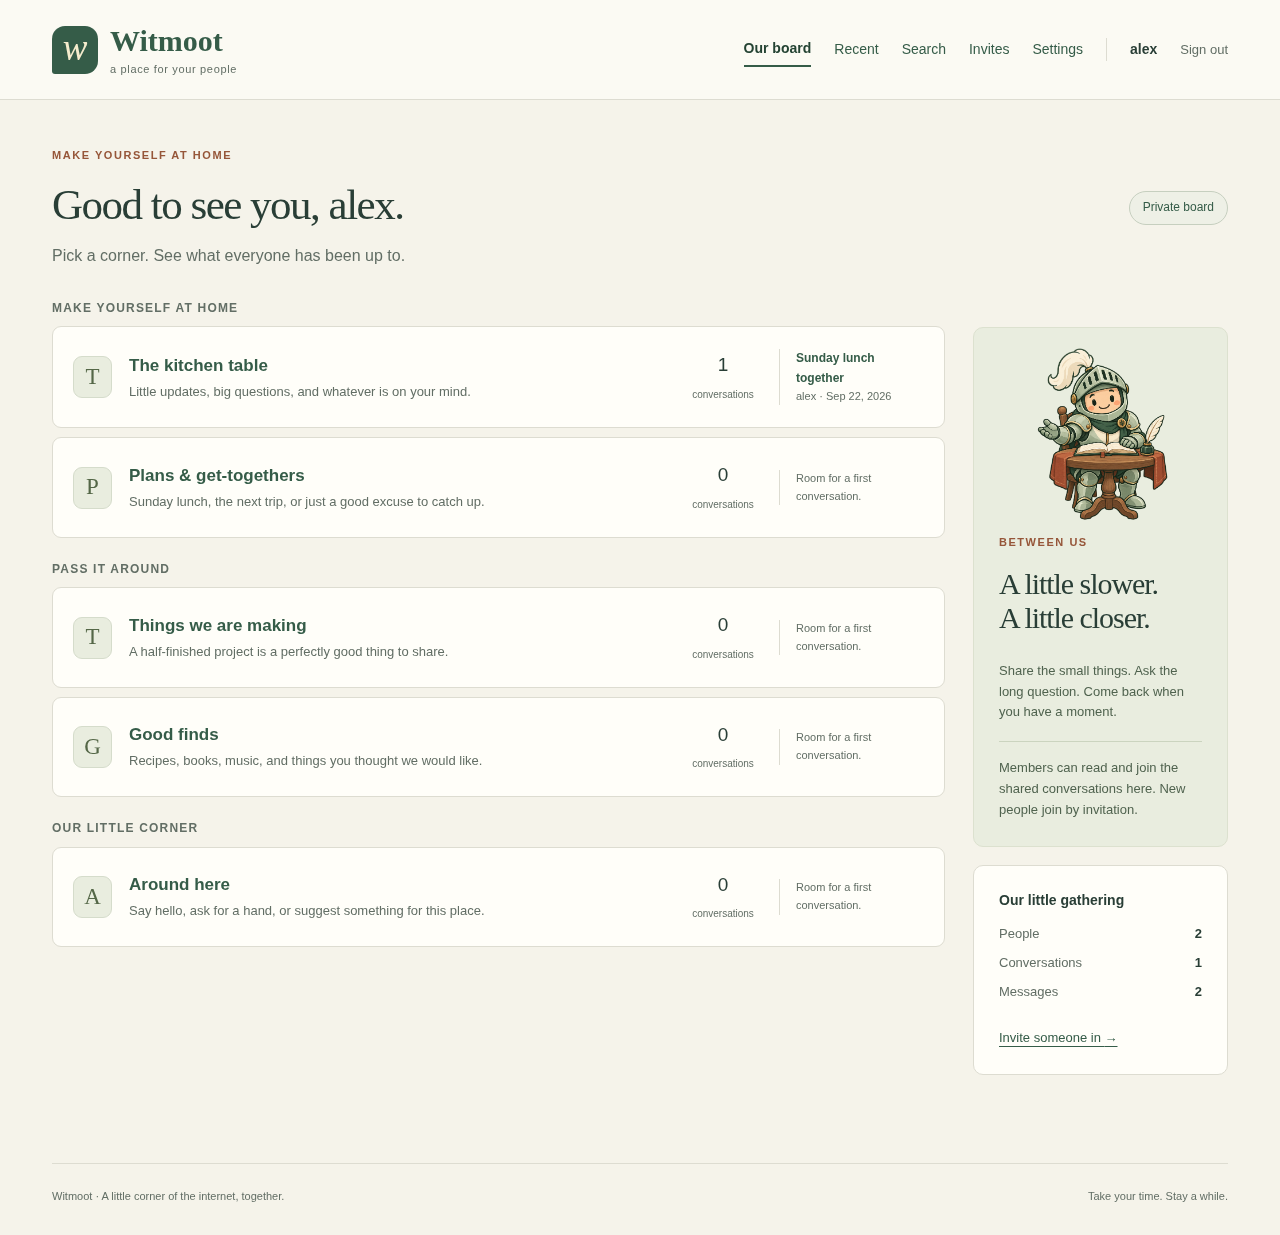
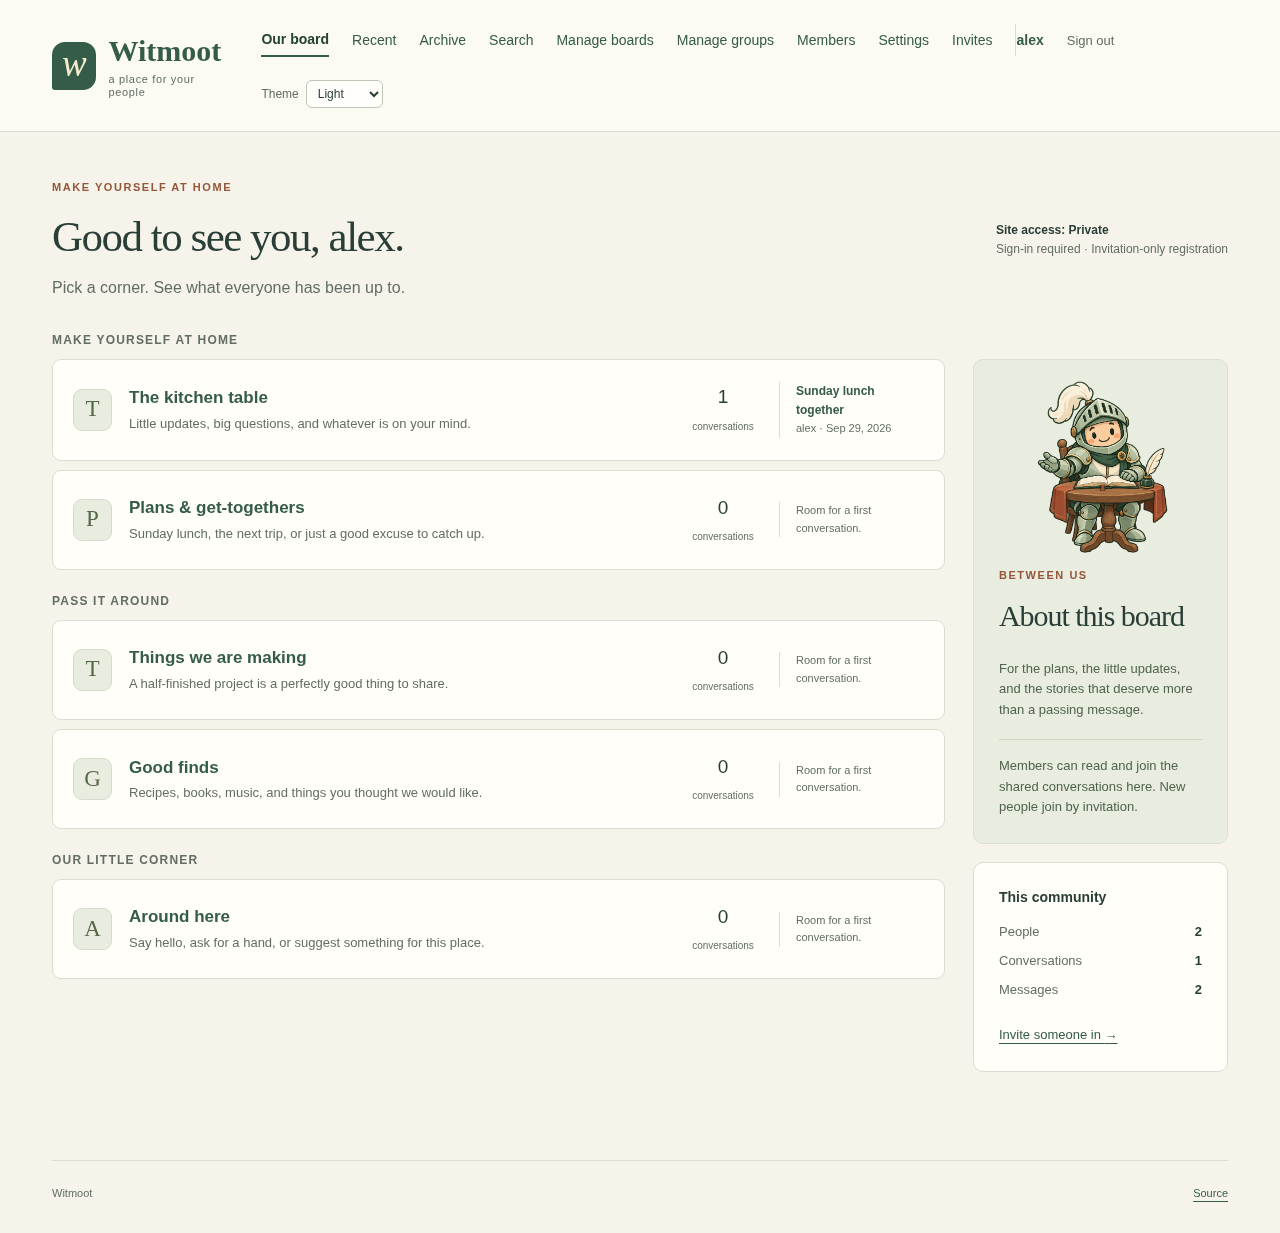
Fix OpenRC mail settings and refine sign-in copy

diff --git a/internal/forum/templates/home.html b/internal/forum/templates/home.html
@@ -1,6 +1,6 @@
 {{define "welcome"}}
 <section class="welcome-grid">
-	<div class="welcome-copy"><p class="eyebrow">A small place. Your people.</p><h1>{{.WelcomeTitle}}</h1><p class="lede">{{.WelcomeText}}</p><p>{{if eq .Mode "personal"}}{{.Name}} is a personal board for its owners. A quiet place for thoughts worth keeping.{{else}}{{.Name}} is a private gathering place for family and friends. Pull up a chair.{{end}}</p><a class="button" href="/login">Come on in <span aria-hidden="true">→</span></a><p class="muted invitation-note">{{if eq .Mode "personal"}}Owner sign-in only. This board is not accepting new members.{{else}}New here? Ask the owner for an invitation.{{end}}</p></div>
+	<div class="welcome-copy"><p class="eyebrow">A small place. Your people.</p><h1>{{.WelcomeTitle}}</h1><p class="lede">{{.WelcomeText}}</p><p>{{if eq .Mode "personal"}}{{.Name}} is a personal board for its owners. A quiet place for thoughts worth keeping.{{else}}{{.Name}} is a private gathering place for family and friends. Pull up a chair.{{end}}</p><a class="button" href="/login">Sign in <span aria-hidden="true">→</span></a><p class="muted invitation-note">{{if eq .Mode "personal"}}Owner sign-in only. This board is not accepting new members.{{else}}New here? Ask the owner for an invitation.{{end}}</p></div>
 	<aside class="welcome-note"><img class="mascot welcome-mascot" src="{{.MascotURL}}" alt="" width="240" height="240"><p class="eyebrow">Make yourself at home</p><h2>Our own<br>little corner.</h2><div class="note-rule"></div><p>{{.WelcomeText}}</p><span class="note-signature">See you around.</span></aside>
 </section>
 {{end}}
@@ -21,8 +21,8 @@
 		{{else}}<p class="paper">No active boards to show. You can still visit the <a href="/archive">Archive</a>.</p>{{end}}
 	</div>
 	<aside class="sidebar">
-		<section class="paper side-note"><img class="mascot" src="{{.MascotURL}}" alt="" width="180" height="180"><p class="eyebrow">{{if eq .Mode "open"}}Room at the table{{else}}Between us{{end}}</p><h2>A little slower.<br>A little closer.</h2><p>{{.WelcomeText}}</p><p>{{if eq .Mode "personal"}}Only owners can use this board. New conversations are for owners only.{{else if eq .Mode "open"}}Public conversations are open to everyone. Create an account to take part.{{else}}Members can read and join the shared conversations here. New people join by invitation.{{end}}</p></section>
-		<section class="paper group-stats"><h2>Our little gathering</h2><dl><div><dt>People</dt><dd>{{.Stats.Members}}</dd></div><div><dt>Conversations</dt><dd>{{.Stats.Topics}}</dd></div><div><dt>Messages</dt><dd>{{.Stats.Posts}}</dd></div></dl>{{if and .User (or (eq .User.Role "owner") .User.CanInvite) (ne .Mode "personal")}}<a href="/invites">Invite someone in <span aria-hidden="true">→</span></a>{{else if and (not .User) (eq .Mode "open")}}<a href="/join">Join our board <span aria-hidden="true">→</span></a>{{end}}</section>
+		<section class="paper side-note"><img class="mascot" src="{{.MascotURL}}" alt="" width="180" height="180"><p class="eyebrow">{{if eq .Mode "open"}}Room at the table{{else}}Between us{{end}}</p><h2>About this board</h2><p>{{.WelcomeText}}</p><p>{{if eq .Mode "personal"}}Only owners can use this board. New conversations are for owners only.{{else if eq .Mode "open"}}Public conversations are open to everyone. Create an account to take part.{{else}}Members can read and join the shared conversations here. New people join by invitation.{{end}}</p></section>
+		<section class="paper group-stats"><h2>This community</h2><dl><div><dt>People</dt><dd>{{.Stats.Members}}</dd></div><div><dt>Conversations</dt><dd>{{.Stats.Topics}}</dd></div><div><dt>Messages</dt><dd>{{.Stats.Posts}}</dd></div></dl>{{if and .User (or (eq .User.Role "owner") .User.CanInvite) (ne .Mode "personal")}}<a href="/invites">Invite someone in <span aria-hidden="true">→</span></a>{{else if and (not .User) (eq .Mode "open")}}<a href="/join">Join our board <span aria-hidden="true">→</span></a>{{end}}</section>
 	</aside>
 </div>
 {{end}}

diff --git a/internal/forum/templates/conversations.html b/internal/forum/templates/conversations.html
@@ -27,7 +27,7 @@
 {{template "pager" .}}
 <div class="posts">{{range .Posts}}<article class="post paper" id="post-{{.ID}}"><aside class="post-author">{{if .HasAvatar}}<img class="avatar" src="/avatars/{{.AuthorID}}" alt="" loading="lazy">{{else}}<span class="avatar" aria-hidden="true">{{initial .Author}}</span>{{end}}<strong>{{.Author}}</strong><span>Here since {{date .JoinedAt}}</span></aside><div class="post-content"><header><div><time datetime="{{iso .CreatedAt}}">{{stamp .CreatedAt}}</time>{{if .EditedAt}}<span class="edited">Edited <time datetime="{{iso .EditedAt}}">{{stamp .EditedAt}}</time></span>{{end}}</div>{{if .CanEdit}}<a href="/posts/{{.ID}}/edit" aria-label="Edit message {{.Number}}">Edit</a>{{end}}<a href="#post-{{.ID}}" aria-label="Message {{.Number}}" hx-boost="false">#{{.Number}}</a></header><div class="post-body" hx-disable>{{template "body" .Body}}</div>{{if .Images}}<div class="post-images">{{range .Images}}<figure><a href="/images/{{.ID}}" target="_blank" rel="noopener" hx-boost="false"><img src="/images/{{.ID}}" alt="{{.Name}}" loading="lazy"></a><figcaption>{{.Name}}</figcaption></figure>{{end}}</div>{{end}}</div></article>{{else}}<p class="paper">There are no messages on this page.</p>{{end}}</div>
 {{template "pager" .}}
-{{if .CanPost}}<section class="paper reply-box" id="reply"><h2>Join the conversation</h2><p class="audience-note">Who can read your reply: <strong>{{.Topic.AudienceLabel}}</strong>.</p>{{template "error" .}}<form action="/topics/{{.Topic.ID}}/replies" method="post" enctype="multipart/form-data" hx-encoding="multipart/form-data" hx-disabled-elt="find button[type='submit']">{{template "csrf" .}}<label for="body">Your reply</label><textarea id="body" name="body" rows="5" maxlength="20000" required placeholder="Leave a little something…">{{.BodyInput}}</textarea>{{template "image-fields" .}}<div class="form-footer"><span class="muted">Take your time. Line breaks welcome.</span><button type="submit">Post reply</button></div></form></section>{{else if .Topic.BoardArchived}}{{else if .User}}<p class="paper audience-note">You have read-only access to this board.</p>{{else}}<section class="paper reply-box"><h2>Join the conversation</h2><p><a href="/login">Sign in to reply</a> or <a href="/join">create an account</a>.</p></section>{{end}}
+{{if .CanPost}}<section class="paper reply-box" id="reply"><h2>Join the conversation</h2><p class="audience-note">Who can read your reply: <strong>{{.Topic.AudienceLabel}}</strong>.</p>{{template "error" .}}<form action="/topics/{{.Topic.ID}}/replies" method="post" enctype="multipart/form-data" hx-encoding="multipart/form-data" hx-disabled-elt="find button[type='submit']">{{template "csrf" .}}<label for="body">Your reply</label><textarea id="body" name="body" rows="5" maxlength="20000" required placeholder="Write your reply">{{.BodyInput}}</textarea>{{template "image-fields" .}}<div class="form-footer"><span class="muted">Line breaks are kept.</span><button type="submit">Post reply</button></div></form></section>{{else if .Topic.BoardArchived}}{{else if .User}}<p class="paper audience-note">You have read-only access to this board.</p>{{else}}<section class="paper reply-box"><h2>Join the conversation</h2><p><a href="/login">Sign in to reply</a> or <a href="/join">create an account</a>.</p></section>{{end}}
 {{end}}
 
 {{define "compose"}}

diff --git a/internal/forum/templates/layout.html b/internal/forum/templates/layout.html
@@ -35,7 +35,7 @@
 				{{if .ImagesEnabled}}<a href="/account/imvault">Images</a>{{end}}
 				<a href="/account" class="signed-in" {{if eq .View "account"}}aria-current="page"{{end}}>{{.User.Username}}</a>
 				<form method="post" action="/logout"><input type="hidden" name="csrf" value="{{.CSRF}}"><button class="text-button" type="submit">Sign out</button></form>
-				{{else}}{{if eq .Mode "open"}}<a href="/join">Join our board</a>{{end}}<a href="/login" class="button small">Come on in</a>{{end}}
+				{{else}}{{if eq .Mode "open"}}<a href="/join">Join our board</a>{{end}}<a href="/login" class="button small">Sign in</a>{{end}}
 				<label class="theme-picker" hidden>Theme
 					<select data-theme-select aria-label="Color theme">
 						<option value="system">System</option>
@@ -73,7 +73,7 @@
 		{{else if eq .View "library"}}{{template "library" .}}
 		{{else}}<section class="paper narrow"><p class="eyebrow">A small detour</p><h1>{{.Title}}</h1>{{template "error" .}}<a href="/">Back to our board</a></section>{{end}}
 	</main>
-	<footer class="site-footer"><span>{{.Name}} · A little corner of the internet, together.</span><span>Take your time. Stay a while.{{if .SourceURL}} · <a href="{{.SourceURL}}" rel="noopener">Source</a>{{end}}</span></footer>
+	<footer class="site-footer"><span>{{.Name}}</span><span>{{if .SourceURL}}<a href="{{.SourceURL}}" rel="noopener">Source</a>{{end}}</span></footer>
 </body>
 </html>{{end}}
 

diff --git a/internal/forum/templates/accounts.html b/internal/forum/templates/accounts.html
@@ -1,13 +1,13 @@
 {{define "login"}}
 <section class="paper narrow account-card">
-	<p class="eyebrow">Your chair is still here</p><h1>Welcome back.</h1>
+	<p class="eyebrow">{{.Name}}</p><h1>Welcome back.</h1>
 	<p class="muted">{{if eq .Mode "personal"}}Sign in with an owner account to open your personal board.{{else}}Sign in to see what your people have been up to.{{end}}</p>
 	{{template "error" .}}
 	<form action="/login" method="post" hx-disabled-elt="find button[type='submit']">
 		{{template "csrf" .}}
 		<label for="username">Username</label><input id="username" name="username" autocomplete="username" maxlength="24" value="{{.Username}}" required>
 		<label for="password">Password</label><input id="password" type="password" name="password" autocomplete="current-password" required>
-		<button class="full-width" type="submit">Come on in</button>
+		<button class="full-width" type="submit">Sign in</button>
 	</form>
 	<p class="account-note">{{if eq .Mode "open"}}New here? <a href="/join">Join our board</a>.{{else if eq .Mode "personal"}}This board is for its owners. Joining and invitations are disabled.{{else}}Joining for the first time? Open the invitation link the owner shared with you.{{end}}</p>
 </section>

diff --git a/contrib/openrc/mail_test.go b/contrib/openrc/mail_test.go
@@ -1,0 +1,29 @@
+package openrc_test
+
+import (
+	"strings"
+	"testing"
+)
+
+func TestSMTPAssignmentsReachDaemon(t *testing.T) {
+	out, err := runService(`
+WITMOOT_SMTP_HOST=smtp.example.org
+WITMOOT_SMTP_PORT=465
+WITMOOT_SMTP_USERNAME=witmoot
+WITMOOT_SMTP_PASSWORD=audit-placeholder
+WITMOOT_SMTP_FROM='Witmoot <no-reply@example.org>'
+WITMOOT_SMTP_TLS=implicit
+. ./witmoot || exit 1
+checkpath() { return 0; }
+start_pre || exit 1
+env
+`)
+	if err != nil {
+		t.Fatalf("service startup: %s (%v)", out, err)
+	}
+	for _, setting := range []string{"WITMOOT_SMTP_HOST=smtp.example.org", "WITMOOT_SMTP_PORT=465", "WITMOOT_SMTP_USERNAME=witmoot", "WITMOOT_SMTP_PASSWORD=audit-placeholder", "WITMOOT_SMTP_FROM=Witmoot <no-reply@example.org>", "WITMOOT_SMTP_TLS=implicit"} {
+		if !strings.Contains("\n"+string(out), "\n"+setting+"\n") {
+			t.Errorf("daemon did not receive %s", setting)
+		}
+	}
+}

diff --git a/internal/forum/signin_controls_test.go b/internal/forum/signin_controls_test.go
@@ -1,0 +1,23 @@
+package forum
+
+import (
+	"net/http"
+	"regexp"
+	"testing"
+)
+
+func TestSignInControlsDescribeTheirAction(t *testing.T) {
+	_, client := newTestApp(t, false)
+	landing := client.request(http.MethodGet, "/", nil, nil)
+	requireStatus(t, landing, http.StatusOK)
+	link := regexp.MustCompile(`<a[^>]+href="/login"[^>]*>Sign in(?:\s|<)`)
+	if !link.MatchString(landing.Body.String()) {
+		t.Fatal("landing page has no clearly labelled sign-in link")
+	}
+	login := client.request(http.MethodGet, "/login", nil, nil)
+	requireStatus(t, login, http.StatusOK)
+	button := regexp.MustCompile(`<button[^>]+type="submit"[^>]*>Sign in</button>`)
+	if !button.MatchString(login.Body.String()) {
+		t.Fatal("login form has no clearly labelled sign-in submit control")
+	}
+}

diff --git a/README.md b/README.md
@@ -242,9 +242,10 @@ shared among all owner accounts.
 WITMOOT_NAME='Our little corner' WITMOOT_ADDR=127.0.0.1:9000 make run
 ```
 
-The starter rooms are seeded once by the initial migration. Their names are
-currently fixed; room management is future work. The default data directory is
-created with owner-only access. An existing directory keeps its permissions.
+Five starter boards are seeded once. Owners can create and rename boards,
+choose who can read and post, and archive boards without deleting their
+conversations. The default data directory is created with owner-only access.
+An existing directory keeps its permissions.
 
 ## Invitations for your people
 
@@ -333,8 +334,8 @@ are core work still to do. See the
 [data portability requirements](docs/data-portability.md), informed by imvault's
 existing account exports.
 
-This is a first working foundation. Member removal, post deletion, and
-moderation are not implemented yet. Account recovery covers member-initiated
+Member removal, post deletion, and moderation are not implemented yet.
+Account recovery covers member-initiated
 password changes, owner-issued reset links, and the local `set-password`
 command; there is no self-service email reset, and mail stays off until a relay
 is configured. Do not use it as the sole copy of irreplaceable family material.

diff --git a/docs/releases.md b/docs/releases.md
@@ -9,6 +9,8 @@ Each version has Linux **amd64** (x86-64) and **arm64** (AArch64) builds:
 - `witmoot_VERSION_source.tar.gz`: the corresponding source.
 - `witmoot_VERSION_checksums.txt`: SHA-256 checksums for all five artifacts.
 
+See [the 0.7.2 release notes](release-notes/0.7.2.md) for the OpenRC mail fix.
+
 The Go compiler is only needed when building from source.
 HTTPS connections to imvault need your system's CA certificates.
 
@@ -17,7 +19,7 @@ HTTPS connections to imvault need your system's CA certificates.
 Select the version and architecture you want. For example:
 
 ```sh
-release_version=0.2.0
+release_version=0.7.2
 release_arch=amd64
 release_url="https://github.com/airencracken/witmoot/releases/download/v$release_version"
 curl -fLO "$release_url/witmoot_${release_version}_${release_arch}.deb"
@@ -68,8 +70,8 @@ Download the archive and checksum file for your architecture, verify them as
 above, and extract the archive:
 
 ```sh
-tar -xzf witmoot_0.2.0_linux_amd64.tar.gz
-cd witmoot_0.2.0_linux_amd64
+tar -xzf witmoot_0.7.2_linux_amd64.tar.gz
+cd witmoot_0.7.2_linux_amd64
 sudo install -m 0755 witmoot /usr/local/bin/witmoot
 sudo install -d /usr/local/share/doc/witmoot
 sudo install -m 0644 LICENSE README.md THIRD_PARTY_NOTICES.txt /usr/local/share/doc/witmoot/

diff --git a/docs/release-notes/0.7.2.md b/docs/release-notes/0.7.2.md
@@ -1,0 +1,16 @@
+# Witmoot 0.7.2
+
+The OpenRC service now exports every SMTP setting from `/etc/conf.d/witmoot` to
+the server. Previously, the documented plain assignments were ignored and email
+delivery stayed disabled.
+
+Sign-in controls now use the same clear label throughout the app. Repeated
+decorative copy has been trimmed, and the README describes the existing board
+management features instead of calling them future work.
+
+Update the service script and restart Witmoot. Your configuration and data remain
+in place; there are no new database migrations. The configuration file should
+remain readable only by root (mode 0600).
+
+See [installation and upgrades](../releases.md) for the Linux binaries, Debian
+packages, source archive, and checksum manifest.
